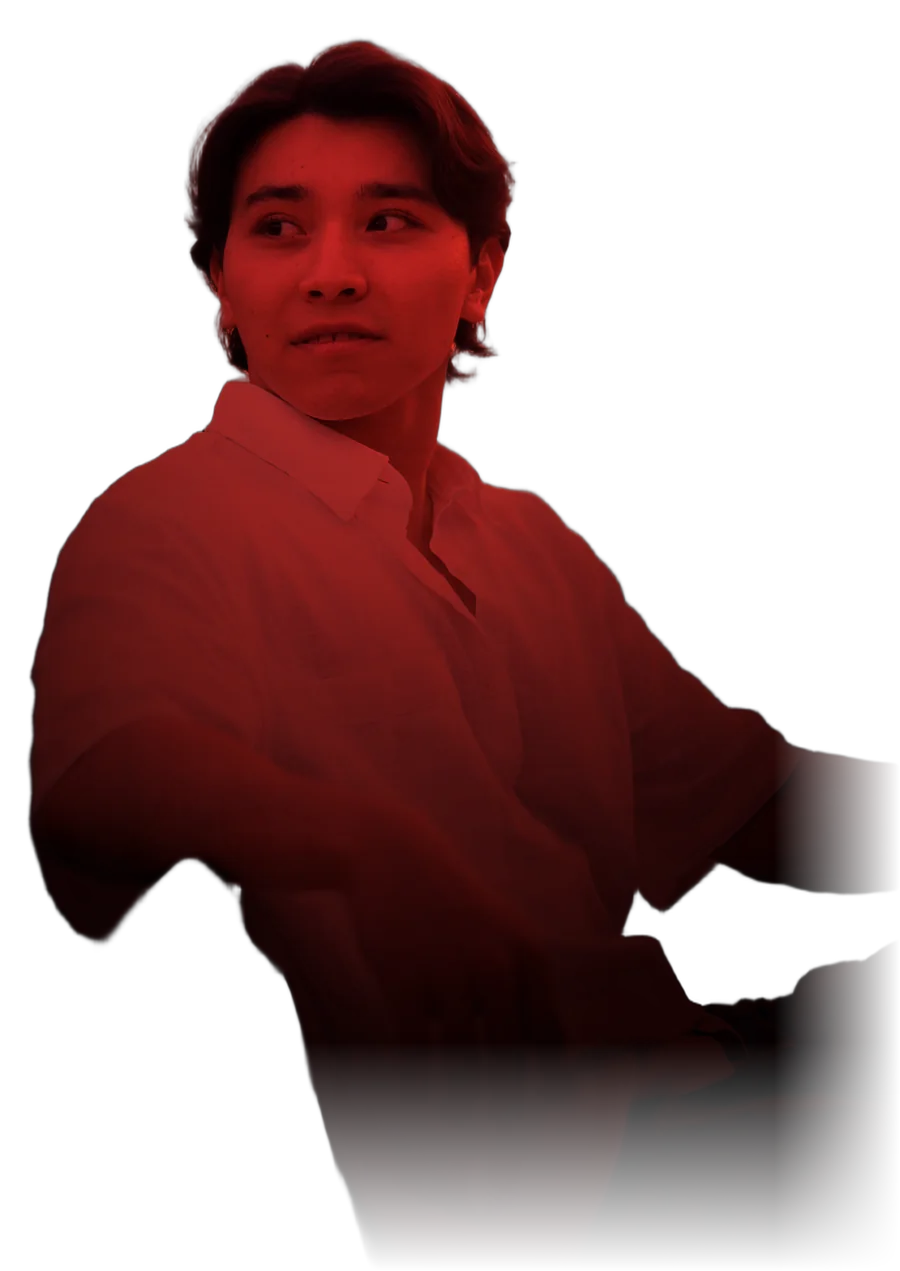
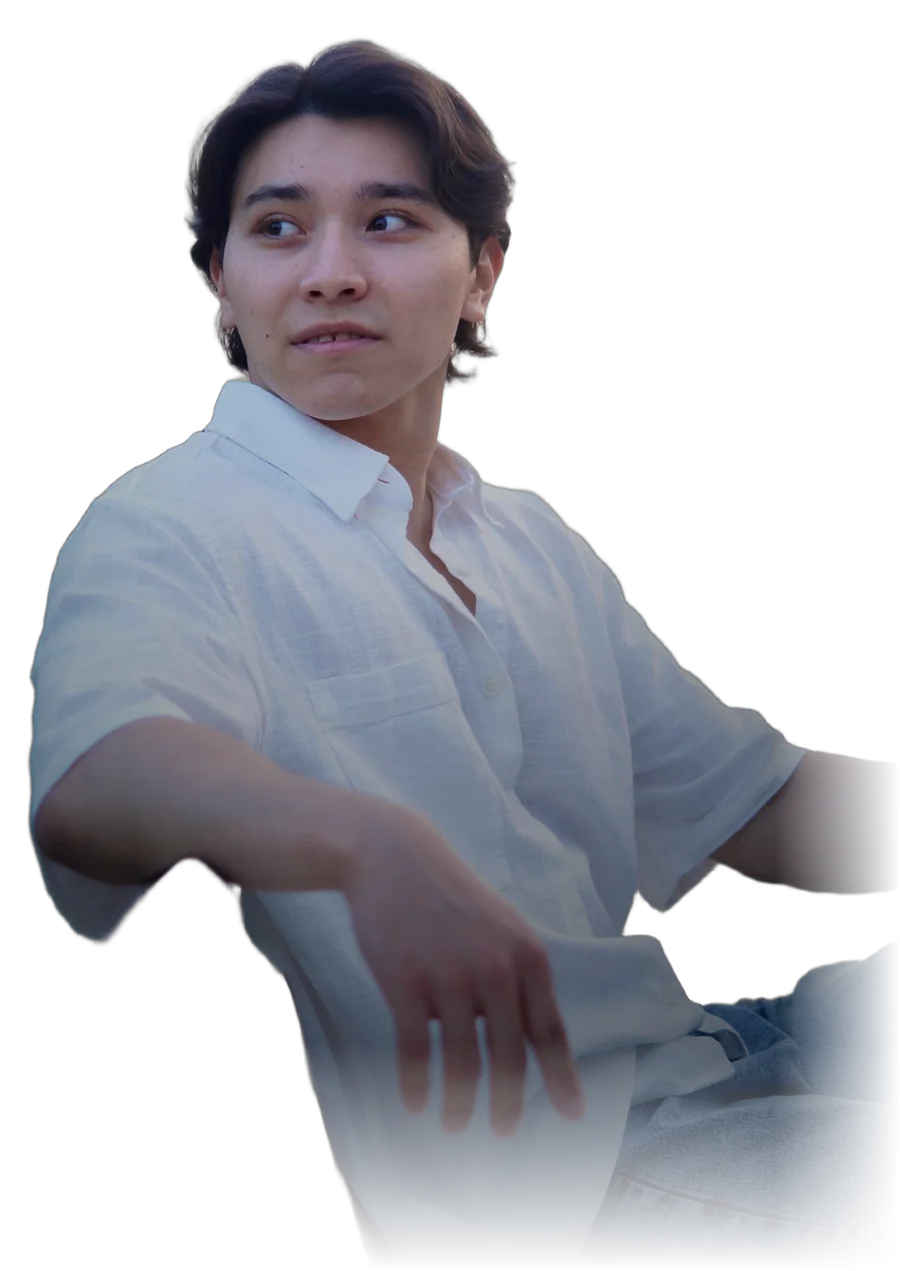
Use natural colors for the hero portrait
The cut-out portrait keeps its original colors with soft shading
toward the bottom and tamed shirt highlights; the red glow stays in
the background only. OG image regenerated to match.

Claude-Session: https://claude.ai/code/session_01Y36Lw1QfzpX6iKxynzhUKg

diff --git a/reels/index.html b/reels/index.html
@@ -73,6 +73,7 @@ ul,ol{margin:0;padding:0;list-style:none;}
 :focus-visible{outline:2px solid var(--red-hi);outline-offset:3px;border-radius:8px;}
 .wrap{max-width:var(--maxw);margin:0 auto;padding:0 var(--gutter);}
 .hide-m{display:none;}
+.label .hide-m{margin-left:-8px;}
 .sr{position:absolute;width:1px;height:1px;overflow:hidden;clip:rect(0 0 0 0);white-space:nowrap;}
 
 /* Подписи в квадратных скобках — как служебные надписи в видоискателе */

diff --git a/README.md b/README.md
@@ -13,7 +13,7 @@
 Лежит в папке `reels/` и не зависит от основного портфолио. Вёрстка mobile-first, без бэкенда — связь только через мессенджеры.
 
 - `reels/index.html` — вся страница
-- `reels/hero.webp` — фото на первом экране: вырезано из фона и затонировано в красный (исходник — `images/myphoto.jpg`)
+- `reels/hero.webp` — фото на первом экране: вырезано из фона, цвета естественные (исходник — `images/myphoto.jpg`)
 - `reels/cases/` — ролики и обложки для кейсов
 - `reels/og.jpg` — превью ссылки в WhatsApp и Telegram
 - `reels/favicon.svg` — иконка вкладки
